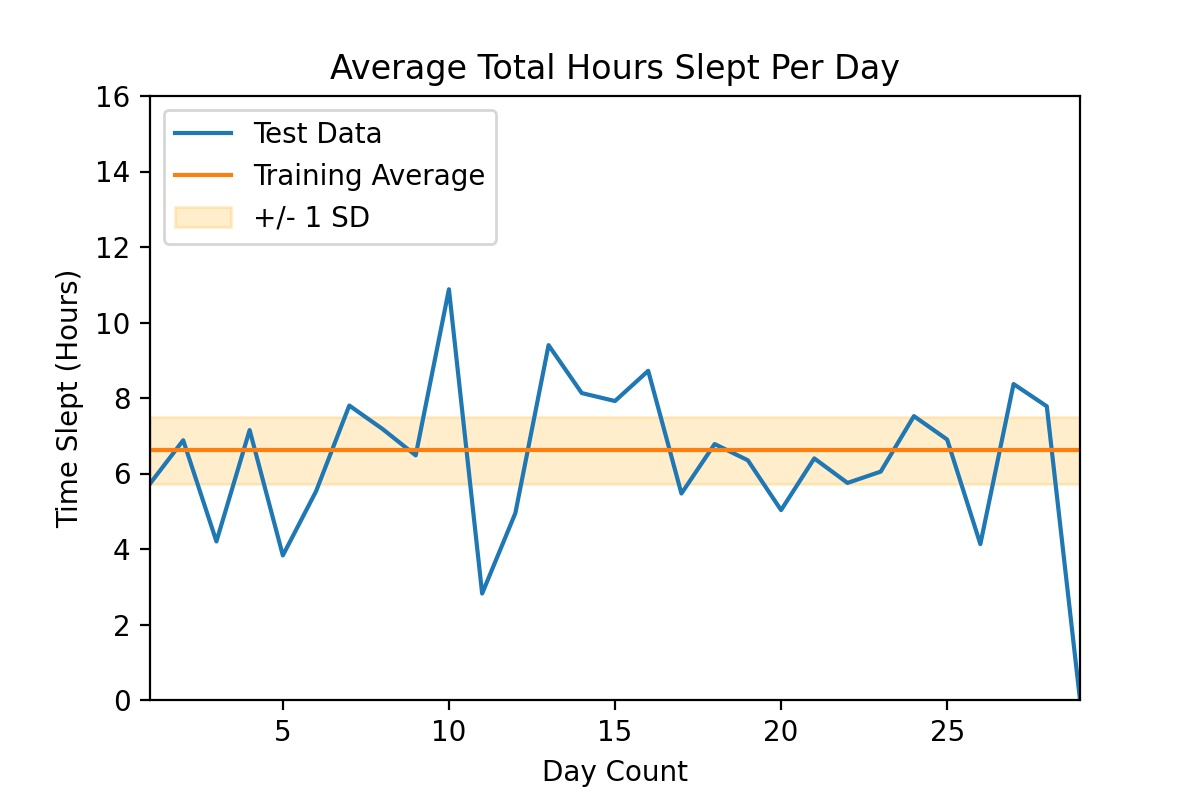
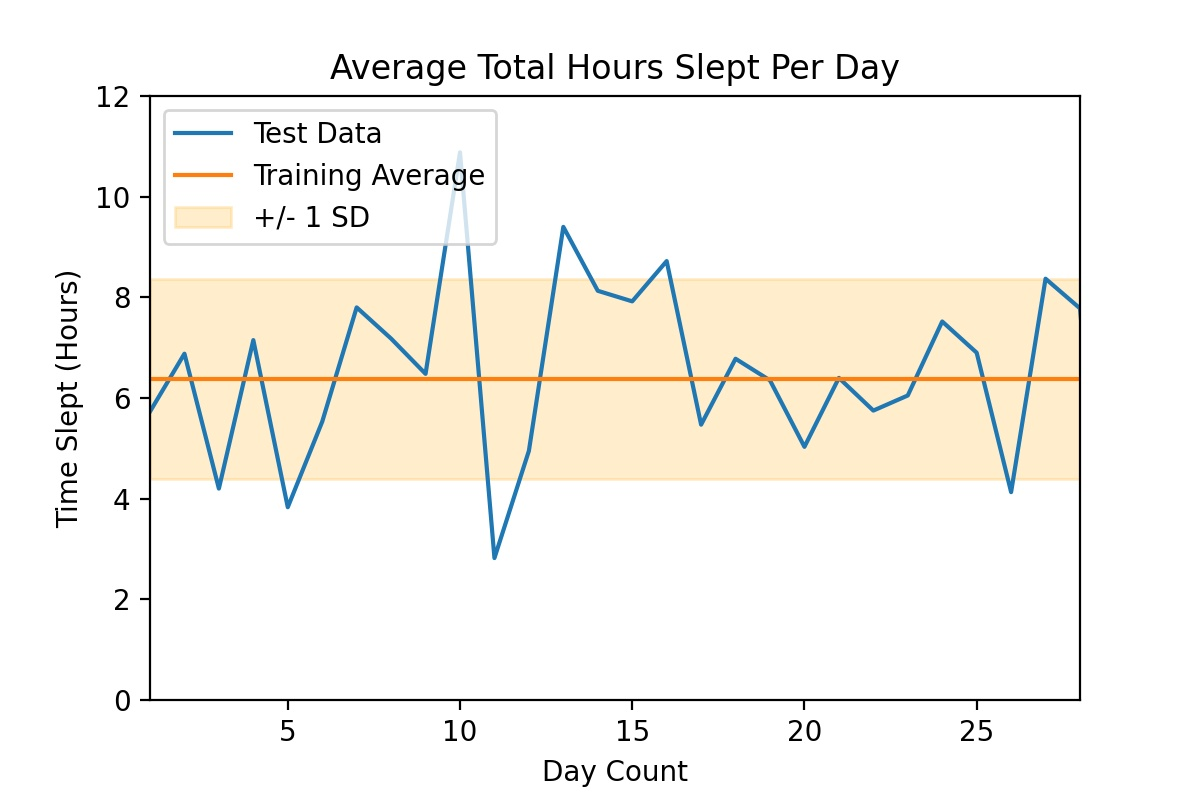
sleep analytics full

diff --git a/preprocessing/global_variables/global_variables.py b/preprocessing/global_variables/global_variables.py
@@ -1,103 +1,103 @@
 from datetime import datetime
 
 # hh101 variables
-# filename = "../CASAS_dataset/hh101/hh101.ann.features.csv"
-# filename_proc = "processed_data/hh101/hh101_preprocessed_60sw.csv"
-# data_name = 'hh101'
-# interval = 60
-# start_date = datetime(2012,7,20,0,0,0)
-# end_date = datetime(2012,9,17,0,0,0)
-# all_activities = [
-#     'timestamp', 
-#     'Step_Out', 
-#     'Other_Activity',
-#     'Toilet', 
-#     'Phone', 
-#     'Personal_Hygiene', 
-#     'Leave_Home', 
-#     'Enter_Home', 
-#     'Relax', 
-#     'Sleep_Out_Of_Bed', 
-#     'Drink', 
-#     'Watch_TV', 
-#     'Dress', 
-#     'Evening_Meds', 
-#     'Wake_Up', 
-#     'Read', 
-#     'Morning_Meds', 
-#     'Cook_Breakfast', 
-#     'Eat_Breakfast', 
-#     'Bathe', 
-#     'Cook_Lunch', 
-#     'Eat_Lunch', 
-#     'Wash_Lunch_Dishes', 
-#     'Go_To_Sleep', 
-#     'Sleep', 
-#     'Bed_Toilet_Transition', 
-#     'Wash_Breakfast_Dishes', 
-#     'Work_At_Table', 
-#     'Groom', 
-#     'Cook', 
-#     'Eat', 
-#     'Cook_Dinner', 
-#     'Eat_Dinner', 
-#     'Wash_Dinner_Dishes', 
-#     'Wash_Dishes', 
-#     'Entertain_Guests',
-# ]
-# sleep_activities = [
-#     'timestamp',
-#     'Date', 
-#     'Sleep', 
-# ]
-
-# hh120 variables
-filename = "../CASAS_dataset/hh120/hh120.ann.features.csv"
-filename_proc = "processed_data/hh120/hh120_preprocessed_60sw.csv"
-data_name = 'hh120'
+filename = "../CASAS_dataset/hh101/hh101.ann.features.csv"
+filename_proc = "processed_data/hh101/hh101_preprocessed_60sw.csv"
+data_name = 'hh101'
 interval = 60
-start_date = datetime(2012,1,28,0,0,0)
-end_date = datetime(2012,3,31,0,0,0)
+start_date = datetime(2012,7,20,0,0,0)
+end_date = datetime(2012,9,17,0,0,0)
 all_activities = [
-    'Sleep',
+    'timestamp', 
+    'Step_Out', 
     'Other_Activity',
-    'Bed_Toilet_Transition',
-    'Toilet',
-    'Relax',
-    'Dress',
-    'Personal_Hygiene',
-    'Morning_Meds',
-    'Wash_Dishes',
-    'Leave_Home',
-    'Enter_Home',
-    'Watch_TV',
+    'Toilet', 
+    'Phone', 
+    'Personal_Hygiene', 
+    'Leave_Home', 
+    'Enter_Home', 
+    'Relax', 
+    'Sleep_Out_Of_Bed', 
+    'Drink', 
+    'Watch_TV', 
+    'Dress', 
+    'Evening_Meds', 
+    'Wake_Up', 
+    'Read', 
+    'Morning_Meds', 
+    'Cook_Breakfast', 
+    'Eat_Breakfast', 
+    'Bathe', 
+    'Cook_Lunch', 
+    'Eat_Lunch', 
+    'Wash_Lunch_Dishes', 
+    'Go_To_Sleep', 
+    'Sleep', 
+    'Bed_Toilet_Transition', 
+    'Wash_Breakfast_Dishes', 
+    'Work_At_Table', 
+    'Groom', 
+    'Cook', 
+    'Eat', 
+    'Cook_Dinner', 
+    'Eat_Dinner', 
+    'Wash_Dinner_Dishes', 
+    'Wash_Dishes', 
     'Entertain_Guests',
-    'Work_On_Computer',
-    'Work_At_Table',
-    'Cook',
-    'Eat',
-    'Take_Medicine',
-    'Drink',
-    'Bathe',
-    'Step_Out',
-    'Evening_Meds',
-    'Read',
-    'Cook_Breakfast',
-    'Eat_Breakfast',
-    'Groom',
-    'Cook_Lunch',
-    'Eat_Lunch',
-    'Wash_Lunch_Dishes',
-    'Sleep_Out_Of_Bed',
-    'Cook_Dinner',
-    'Eat_Dinner',
-    'Wash_Dinner_Dishes',
-    'Phone',
-    'Wash_Breakfast_Dishes'
 ]
-
 sleep_activities = [
     'timestamp',
     'Date', 
     'Sleep', 
 ]
+
+# # hh120 variables
+# filename = "../CASAS_dataset/hh120/hh120.ann.features.csv"
+# filename_proc = "processed_data/hh120/hh120_preprocessed_60sw.csv"
+# data_name = 'hh120'
+# interval = 60
+# start_date = datetime(2012,1,28,0,0,0)
+# end_date = datetime(2012,3,31,0,0,0)
+# all_activities = [
+#     'Sleep',
+#     'Other_Activity',
+#     'Bed_Toilet_Transition',
+#     'Toilet',
+#     'Relax',
+#     'Dress',
+#     'Personal_Hygiene',
+#     'Morning_Meds',
+#     'Wash_Dishes',
+#     'Leave_Home',
+#     'Enter_Home',
+#     'Watch_TV',
+#     'Entertain_Guests',
+#     'Work_On_Computer',
+#     'Work_At_Table',
+#     'Cook',
+#     'Eat',
+#     'Take_Medicine',
+#     'Drink',
+#     'Bathe',
+#     'Step_Out',
+#     'Evening_Meds',
+#     'Read',
+#     'Cook_Breakfast',
+#     'Eat_Breakfast',
+#     'Groom',
+#     'Cook_Lunch',
+#     'Eat_Lunch',
+#     'Wash_Lunch_Dishes',
+#     'Sleep_Out_Of_Bed',
+#     'Cook_Dinner',
+#     'Eat_Dinner',
+#     'Wash_Dinner_Dishes',
+#     'Phone',
+#     'Wash_Breakfast_Dishes'
+# ]
+
+# sleep_activities = [
+#     'timestamp',
+#     'Date', 
+#     'Sleep', 
+# ]

diff --git a/preprocessing/supporting_func/data_summaries.py b/preprocessing/supporting_func/data_summaries.py
@@ -133,5 +133,7 @@ def convert_to_hours(array, night_time=True):
             if (hours < 12 and night_time):
                 hours = hours + 24
             result.append(hours)
+        else:
+            result.append(np.nan)
     result = np.asarray(result)
     return result
